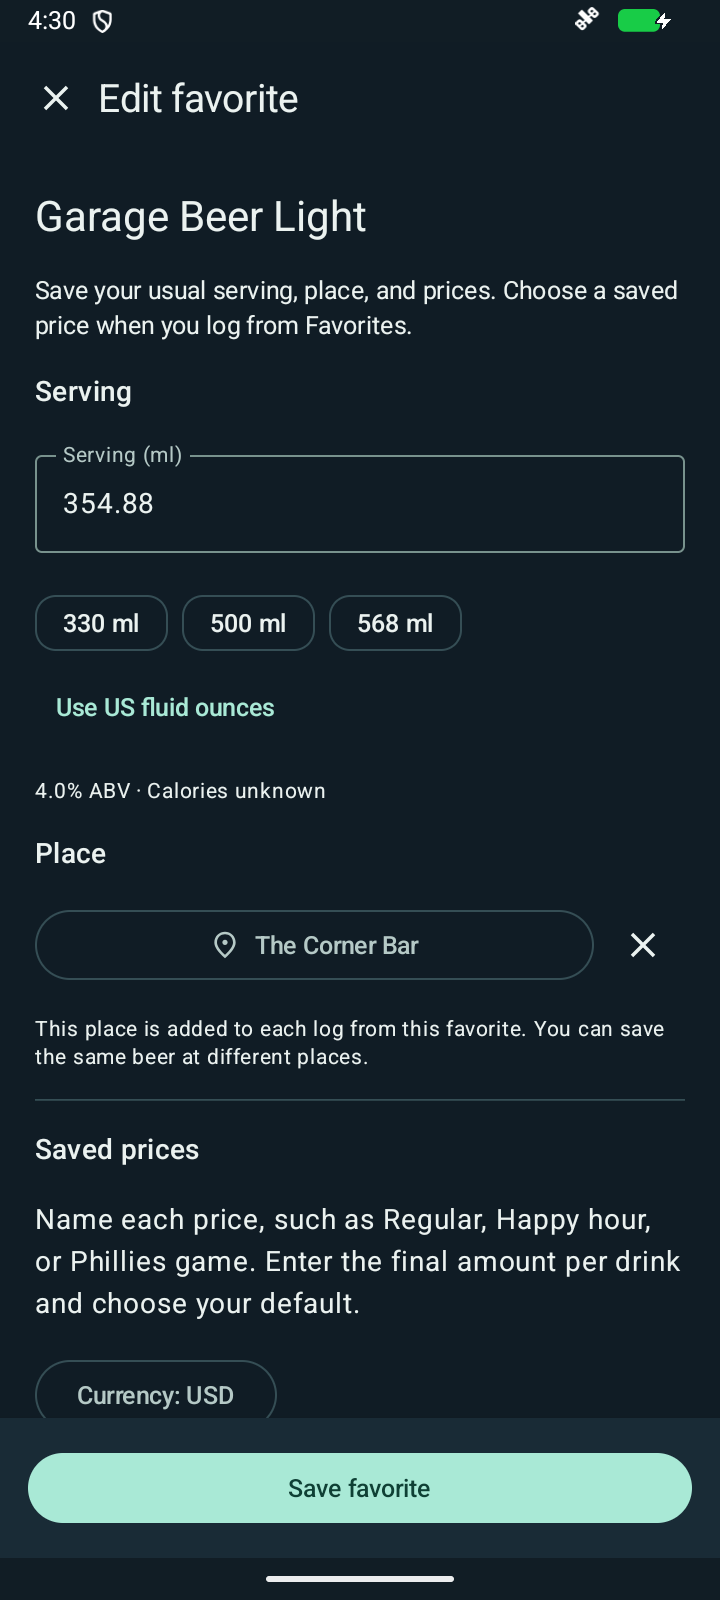
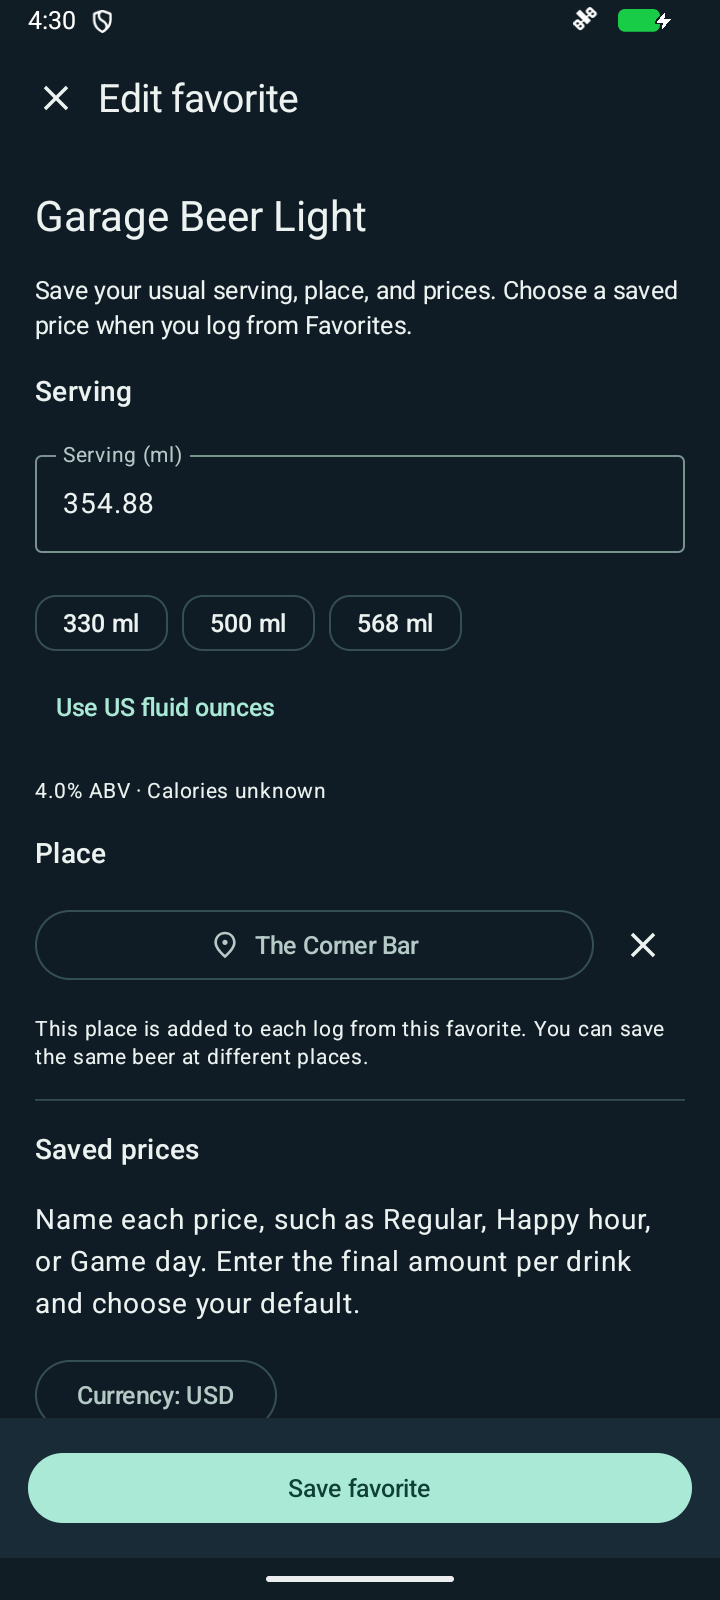
Remove philies reference

diff --git a/src/App.tsx b/src/App.tsx
@@ -566,7 +566,7 @@ const appViews = [
     image: "01-home.png",
     title: "Your regular drink. The right price.",
     text: "Filter favorites by pub and choose a saved price. Each +1 uses that selection and place, so you do not have to enter them again for every drink.",
-    alt: "Favorites filtered by pub with Regular, Happy hour, and Phillies game price options.",
+    alt: "Favorites filtered by pub with Regular, Happy hour, and Game day price options.",
   },
   {
     id: "search",
@@ -733,7 +733,7 @@ const questions = [
   ],
   [
     "Can I save different prices for the same drink?",
-    "Yes. Add any named prices to a favorite: Regular, Happy hour, Phillies game, or your own labels. Enter the final amount for each option, then select the one that applies on Home. That choice is reused for repeat +1 taps. Prices do not switch automatically with times or game schedules, and discounts do not stack automatically. A widget always uses the favorite's saved default price and place.",
+    "Yes. Add any named prices to a favorite: Regular, Happy hour, Game day, or your own labels. Enter the final amount for each option, then select the one that applies on Home. That choice is reused for repeat +1 taps. Prices do not switch automatically with times or game schedules, and discounts do not stack automatically. A widget always uses the favorite's saved default price and place.",
   ],
   [
     "Can I keep different favorites for different pubs?",
@@ -833,7 +833,7 @@ function AppPage() {
           {[
             ["Regular", "$6.00"],
             ["Happy hour", "$3.00"],
-            ["Phillies game", "$5.00"],
+            ["Game day", "$5.00"],
           ].map(([label, price]) => (
             <div className="receipt-row" key={label}>
               <span>{label}</span>

diff --git a/qa/README.md b/qa/README.md
@@ -1,22 +1,23 @@
 # Website verification
 
-Verified locally September 12, 2026 after refreshing catalog, favorite-price, place-filter, and widget copy. These checks cover the local production preview at `/BarTallyWebsite/`, not a hosted deployment.
+Verified locally September 12, 2026 after refreshing catalog, favorite-price, place-filter, and widget copy. The latest update makes the saved-price example generic: Game day. These checks cover the local production preview at `/BarTallyWebsite/`, not a hosted deployment.
 
 ## Checks
 
 - `npm run build`: TypeScript, client bundle, and five prerendered HTML pages passed. Build smoke checks validated 122 local links/assets, metadata, canonical paths, and section anchors.
 - `npm run format:check`: passed.
-- `npm run test:e2e`: all 36 desktop Chromium and emulated Pixel 7 checks passed in 17.2 seconds after the final screenshot and caption updates.
+- Earlier full verification: `npm run test:e2e` passed all 36 desktop Chromium and emulated Pixel 7 checks in 17.2 seconds before the generic-label update.
+- After the generic-label update, build and formatting checks passed again. `npm run test:e2e -- --grep "app preview|FAQ opens"` passed all four desktop/mobile checks in 6.6 seconds, covering both regional screenshot sets and FAQ interaction.
 - The browser suite covers direct loads and refreshes, keyboard navigation, both regional galleries (including Save your order), spending examples, privacy links, reduced motion, and content without JavaScript. All four content pages fit 320, 390, 768, 1024, and 1440 pixel widths without horizontal scrolling.
 - No serious or critical Axe findings, JavaScript/hydration errors, broken local images/fonts, or unsolicited third-party requests were reported by the suite. This is targeted automated coverage, not a full accessibility certification.
 - All 16 regional screenshot files match the Android repository's regional originals byte for byte. All eight default Play screenshots match the US originals. Each regional set now has three 720 x 1600 captures (Home, Search, favorite editor) and five 1080 x 2400 captures (History and insights).
 - Both repositories passed `git diff --check`. The Android About/privacy wording was also updated and `:app:compileDebugKotlin` passed.
 
-The six newly captured Android screens show actual UI without ads. Home demonstrates manual Regular / Happy hour / Phillies game selection at the fictional The Corner Bar; Search shows craft beer results with unknown calories identified; the favorite editor shows the serving, saved place, and introduction to named prices. Price fields continue below that editor viewport. The other ten regional images retain the previously reviewed History and insights screens.
+The six newly captured Android screens show actual UI without ads. Home demonstrates manual Regular / Happy hour / Game day selection at the fictional The Corner Bar; Search shows craft beer results with unknown calories identified; the favorite editor shows the serving, saved place, and introduction to named prices. Price fields continue below that editor viewport. The other ten regional images retain the previously reviewed History and insights screens.
 
 ## Visual review
 
-All four website pages were recaptured at 1440px and 390px after loading their fonts and images. The new named-price section was visually checked at both widths, along with the metric favorite-editor gallery on mobile and the refreshed desktop hero. Text, amounts, and controls are readable, including the complete mobile example-price note. Examples are explicitly fictional; no automatic discount, game schedule, or complete nutrition coverage is advertised.
+All four website pages were captured at 1440px and 390px after loading their fonts and images. Home and App were recaptured after the generic-label update, including both hero views, named-price examples, and metric favorite-editor galleries. The Game day label was visually checked in the desktop/mobile price examples, mobile metric editor, and desktop hero. Text, amounts, and controls are readable, including the complete mobile example-price note. Insights and Privacy retain their earlier reviewed captures. Examples are explicitly fictional; no automatic discount, game schedule, or complete nutrition coverage is advertised.
 
 | Page | Desktop | Mobile |
 | --- | --- | --- |
